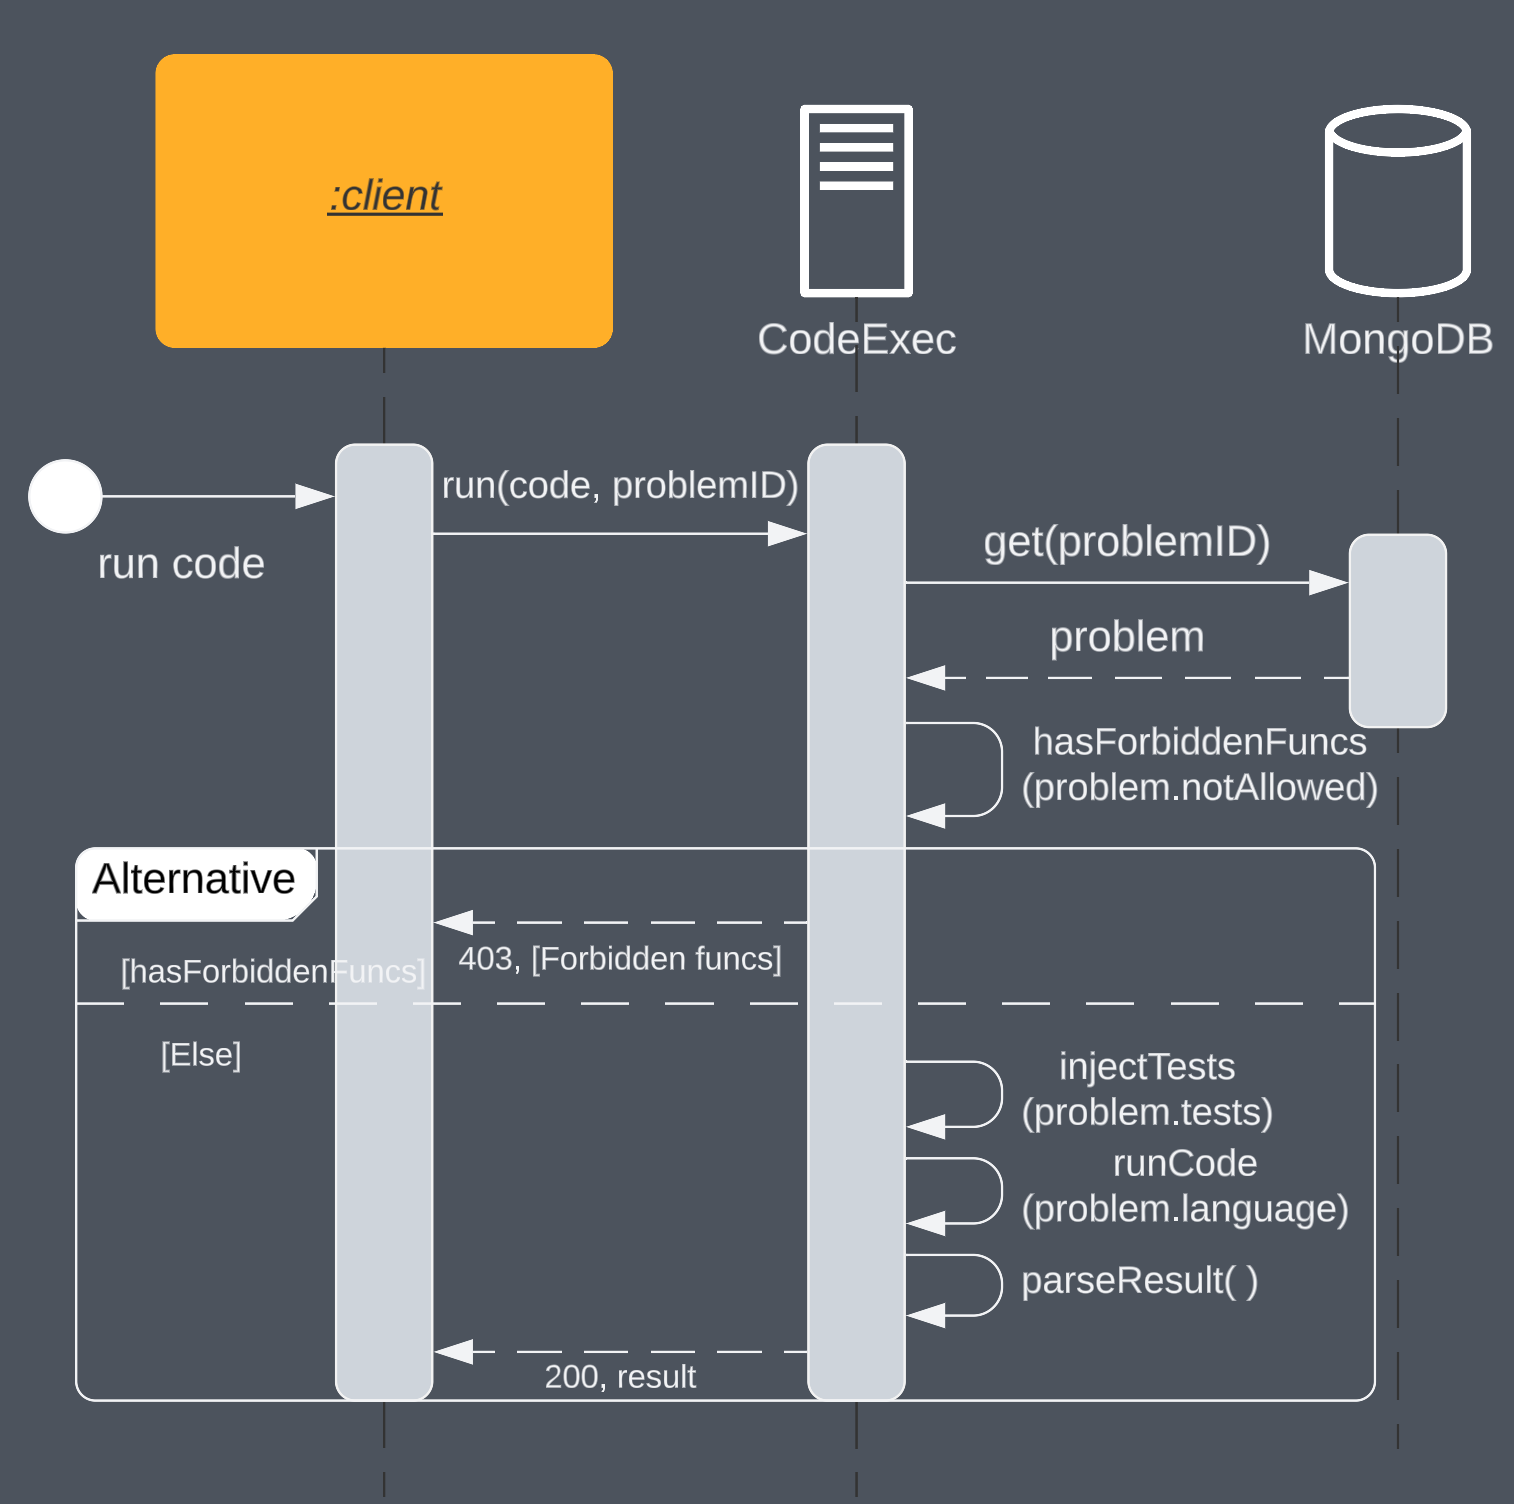
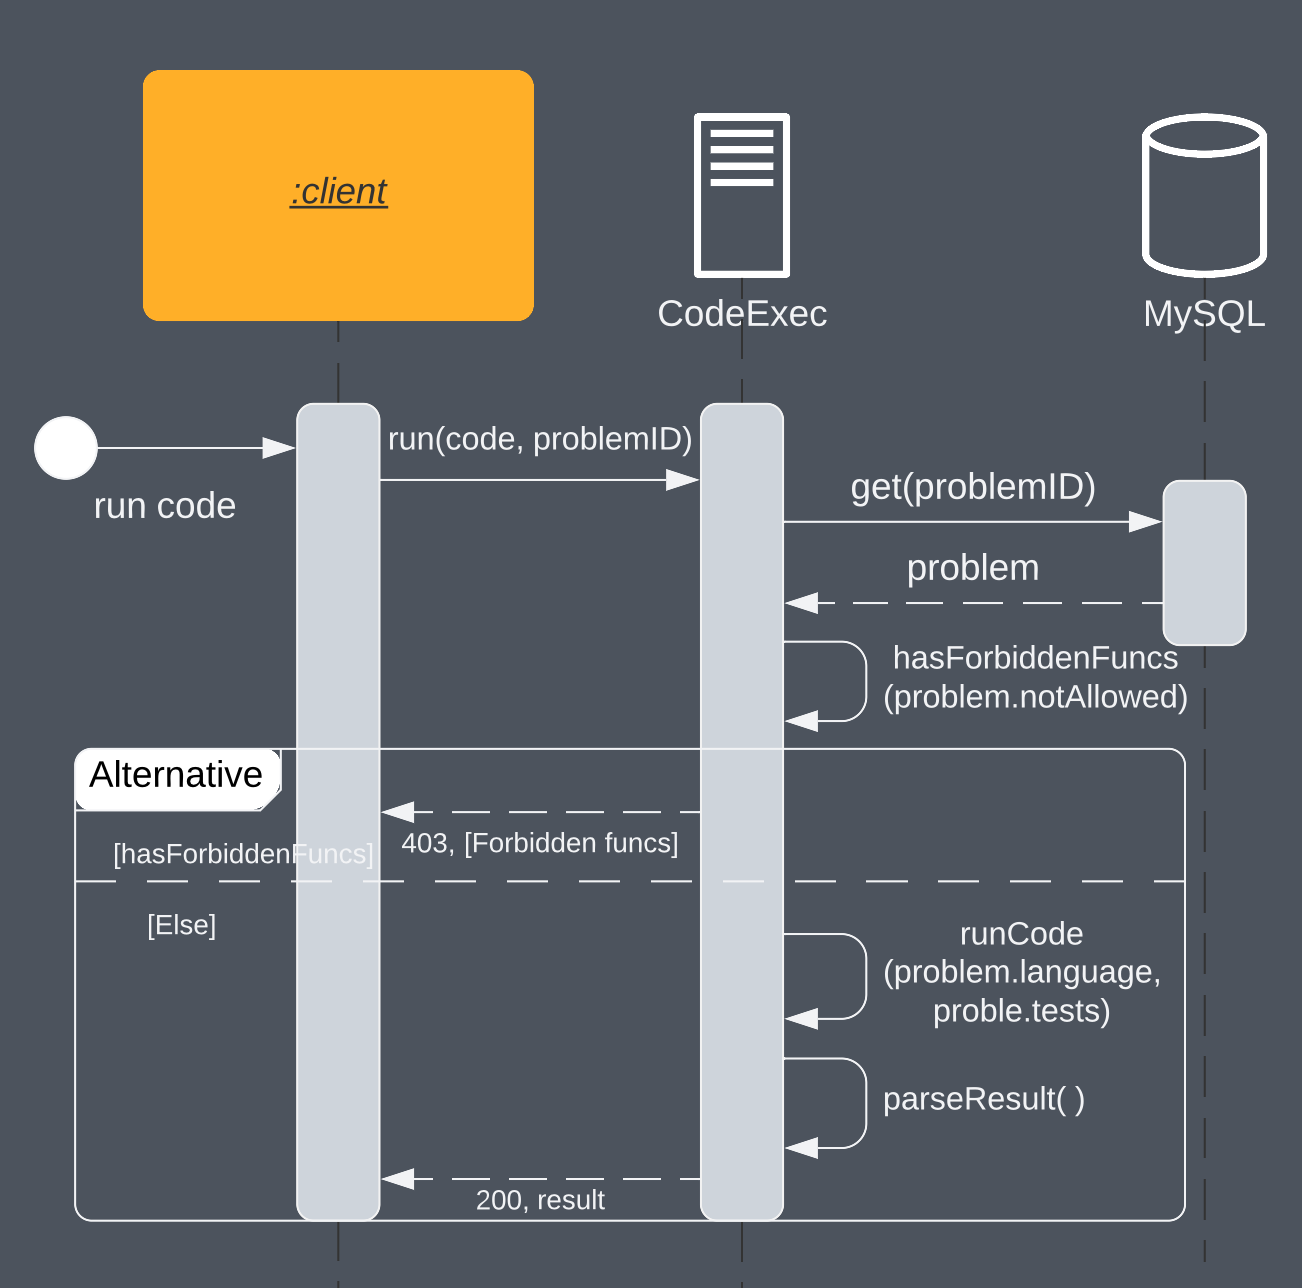
[CodeExec] Updated documentation

diff --git a/src/server/codeExec/CODEEXEC.md b/src/server/codeExec/CODEEXEC.md
@@ -20,48 +20,60 @@ CodeExec es una REST API implementada en Go. Permite ejecutar y evaluar código 
 | Parameter | Type   | Requerido | Description                                     |
 | --------- | ------ | --------- | ----------------------------------------------- |
 | code      | string | si        | Código a ejecutar                               |
-| id        | string | si        | ID del problema en MongoDB                      |
+| id        | string | si        | ID del problema en MySQL                        |
 
 #### Respuesta
 
 La respuesta tiene formato JSON y contiene los siguientes campos
 
-| Campo          | Tipo                  | Descripcion                                                                               |
-| -------------- | --------------------- | -----------------------------------------------------------------                         |
-| error          | string                | Error generado al ejecutar el código, en caso de que no hayan errores es un string vacio  |
-| shownTests     | [ map[string]string ] | Casos de prueba visibles                                                                  |
-| hiddenTests    | map[string]int        | Cantidad de casos de prueba no visibles que pasaron y fallaron                            |
+| Campo          | Tipo                       | Descripcion                                                                                 |
+| -------------- | ---------------------      | -----------------------------------------------------------------                           |
+| error          | string                     | Error generado al ejecutar el código, en caso de que no hayan errores es un string vacio    |
+| shownTests     | [ map[string]string/bool ] | Casos de prueba visibles                                                                    |
+| shownPassed    | int                        | Numero de casos de pruebas visibles que pasaron                                             |
+| shownFailed    | int                        | Numero de casos de pruebas visibles que fallaron                                            |
+| hiddenTests    | map[string]int             | Cantidad de casos de prueba no visibles que pasaron y fallaron                              |
+| passed         | bool                       | Un booleano que indica si todas las pruebas (tanto las mostradas como las ocultas) pasaron. |
 
 #### Ejemplo
 **Peticion**
-GET 34.125.0.99:8081
+POST 34.125.0.99:8081
 Content-Type: application/json
 
 ```
 {
-    "code": "def sumOfTwo(a, b):\n\treturn a + b",
-    "id": "TC1028/2/23"
+    "code": "x = input()\nprint(x.lower())",
+    "id": "HQ000000000000000002"
 }
 ```
 **Respuesta**
 HTTP/1.1 200 OK
 Content-Type: application/json
 
-```
+``` json
 {
     "error": "",
     "shownTests": [
         {
-            "expected": "2",
-            "got": "3",
-            "input": "3,2",
-            "status": "failed"
+            "expected": "dan",
+            "got": "dan",
+            "input": "DaN",
+            "passed": true
+        },
+        {
+            "expected": "perez",
+            "got": "perez",
+            "input": "perEz",
+            "passed": true
         }
     ],
+    "shownPassed": 2,
+    "shownFailed": 0,
     "hiddenTests": {
-        "failed": 1,
-        "passed": 0
-    }
+        "failed": 0,
+        "passed": 2
+    },
+    "passed": true
 }
 ```
 
@@ -70,13 +82,12 @@ En caso de que se presente un error no relacionado con la ejecucion del código,
 
 | HTTP Status | Error Message                                    | Description                                                                                                 |
 | ----------- | ------------------------------------------------ | ----------------------------------------------------------------------------------------------------------- |
-| 400         | Error reading request body                       | No se proporcionaron todos los atributos necesarios, o nose cumple con el formato                           |
+| 400         | Error reading request body                       | No se proporcionaron todos los atributos necesarios, o nose cumple con el formato solicitado                |
 | 403         | Found disallowed functions in code ({functions}) | El código recibido contiene funciones no permitidas, no se ejecutará                                        |   
-| 500         | Error executing query                            | Problema al hacer la consulta a MongoDB, probablemente no exista un documento con el ID dado                |
-| 500         | Error creating tests                             | Problema interno del servidor para generar casos de prueba, indica que el problema en la BBDD no es correcto|
-| 500         | Error executing code                             | Error al ejecutar código no relacionado directamente con este, probablemente le falta algo al ambiente en el que se ejecuto|
-| 500         | Error parsing result                             | Error al "parsear" el output de la ejecucion del código, indica un error en codeExec/packages/util parseIntoResult()|
-| 500         | Error encoding response                          | Error al transformar el objeto de respuesta a un json, indica un error en la definición del struct `Result` |
+| 500         | Error executing query                            | Problema relacionado con la ejecucion de la query, checar la consola de CodeExec para mas detalles          |
+| 500         | Error executing code                             | Error al ejecutar código no relacionado directamente con este, probablemente le falta algo al ambiente en el que se ejecuto |
+| 500         | Error parsing result                             | Error al "parsear" el output de la ejecucion del código, verificar que la query a ejecutar tenga el formato correcto |
+| 500         | Error formatting response                        | Error al transformar el objeto de respuesta a un json, indica un error en la definición del struct `Result` |
 
 
 
